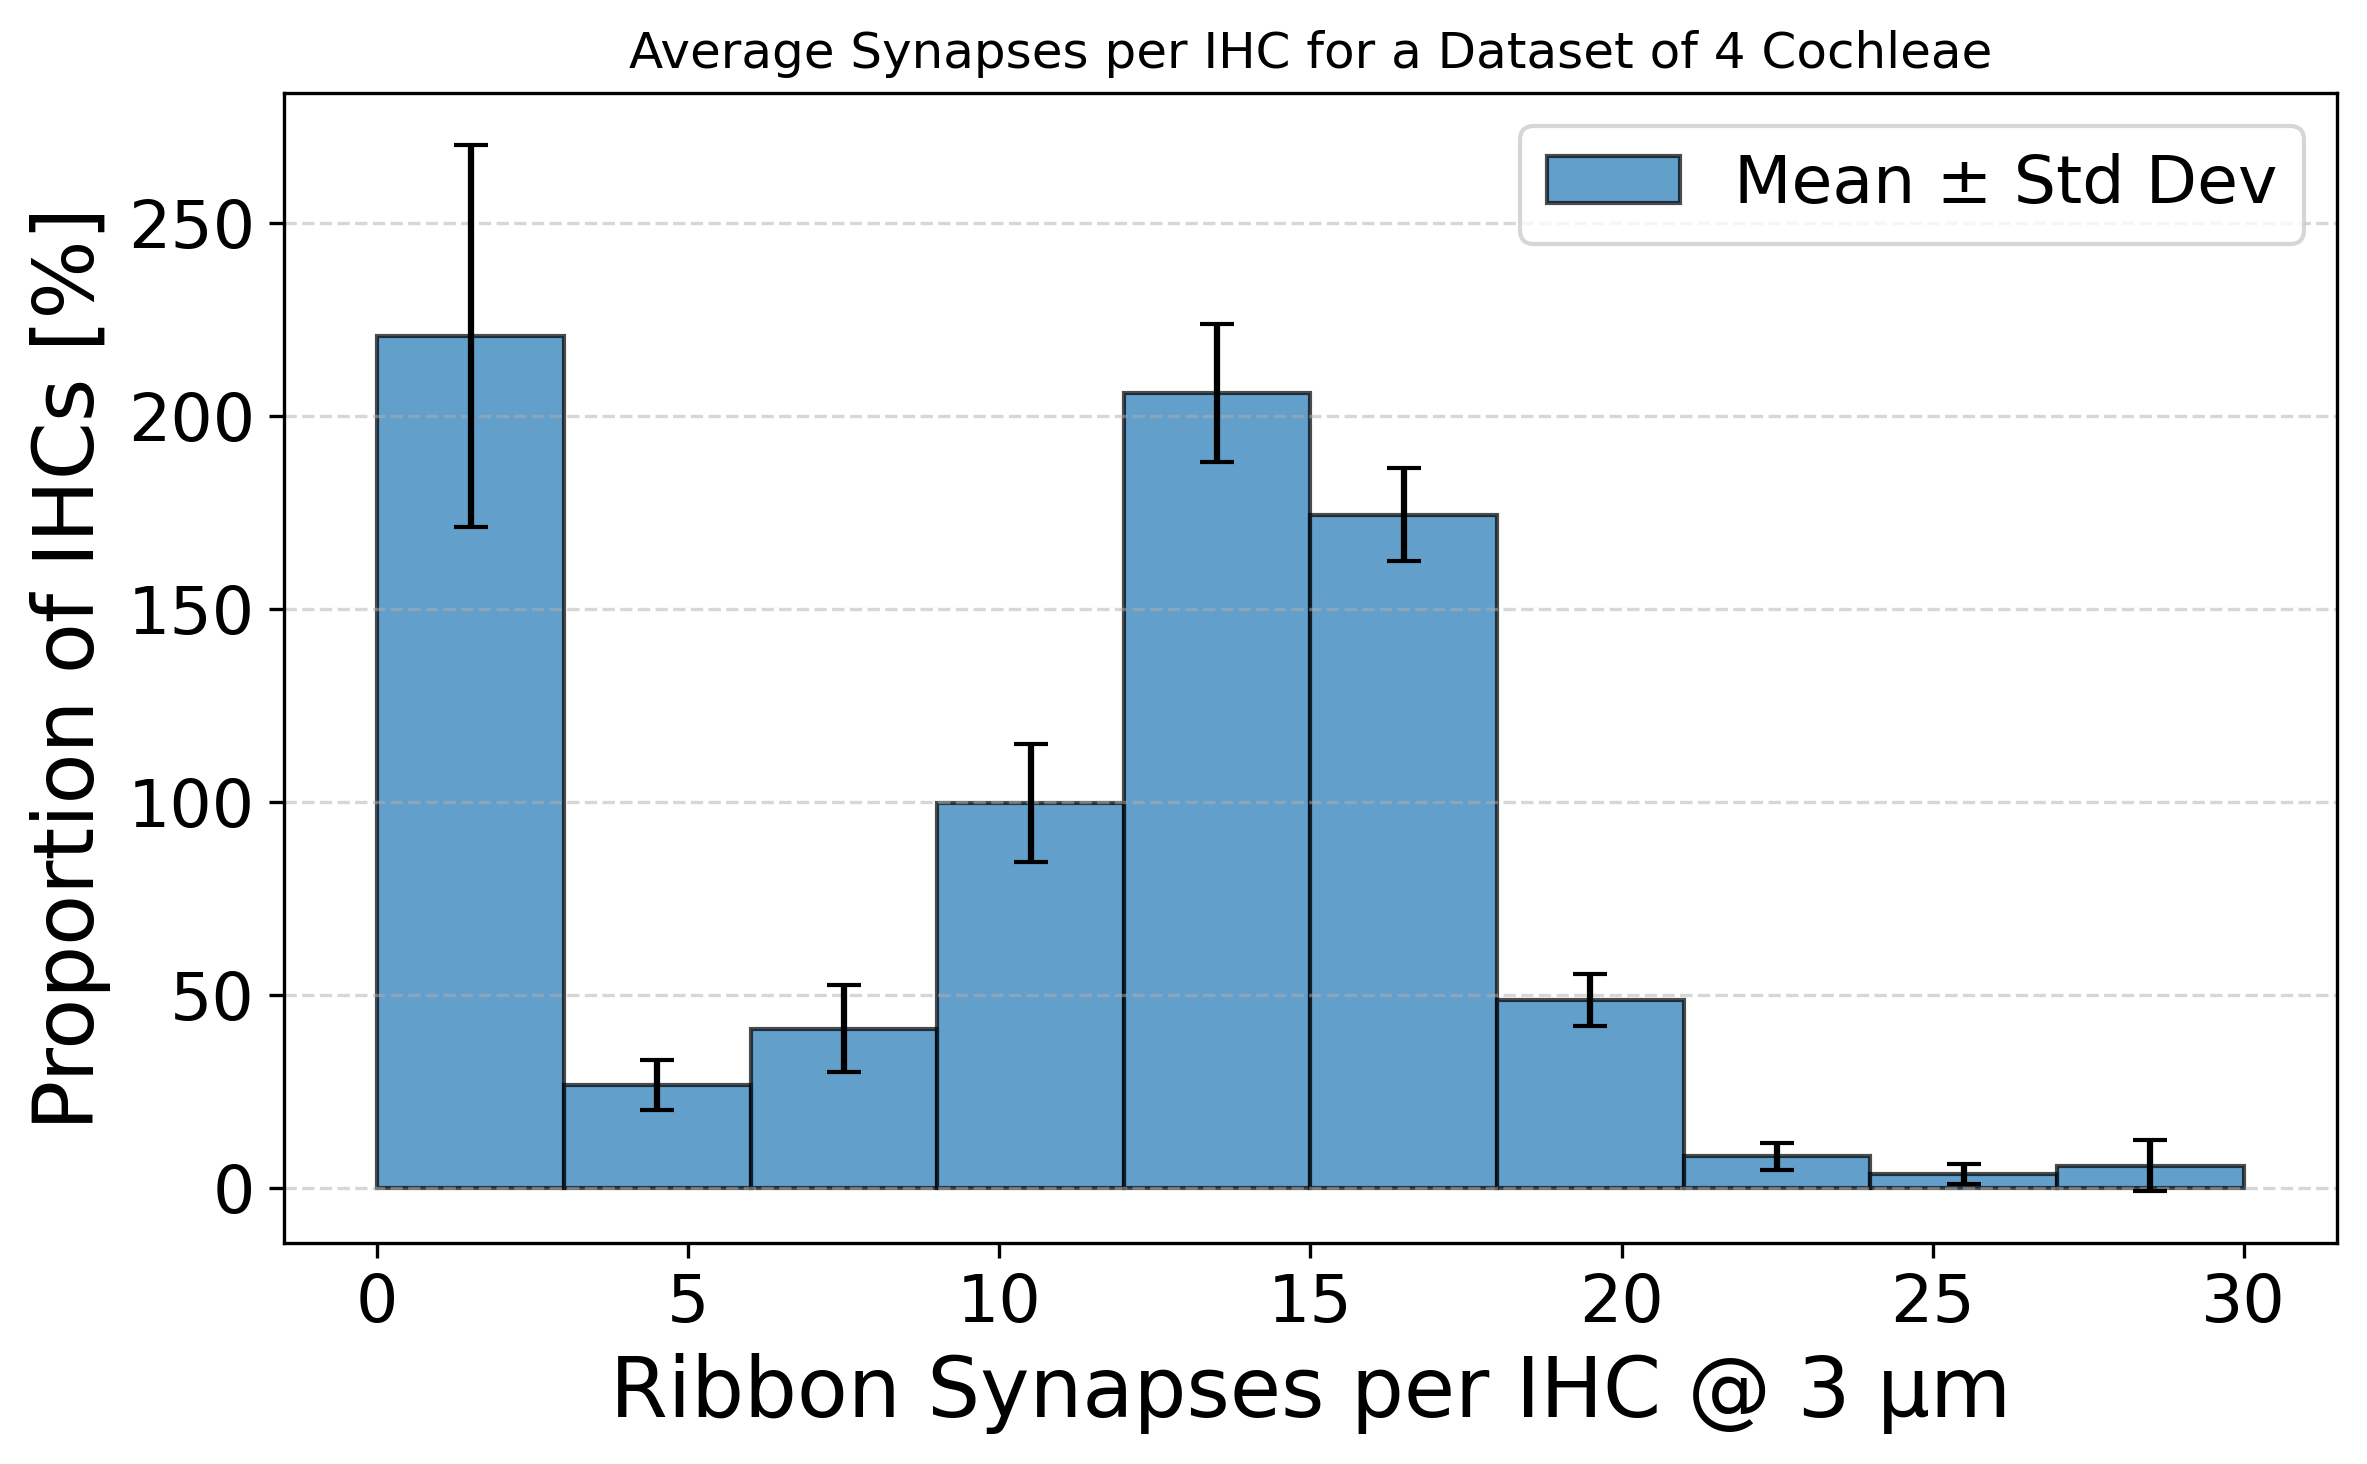
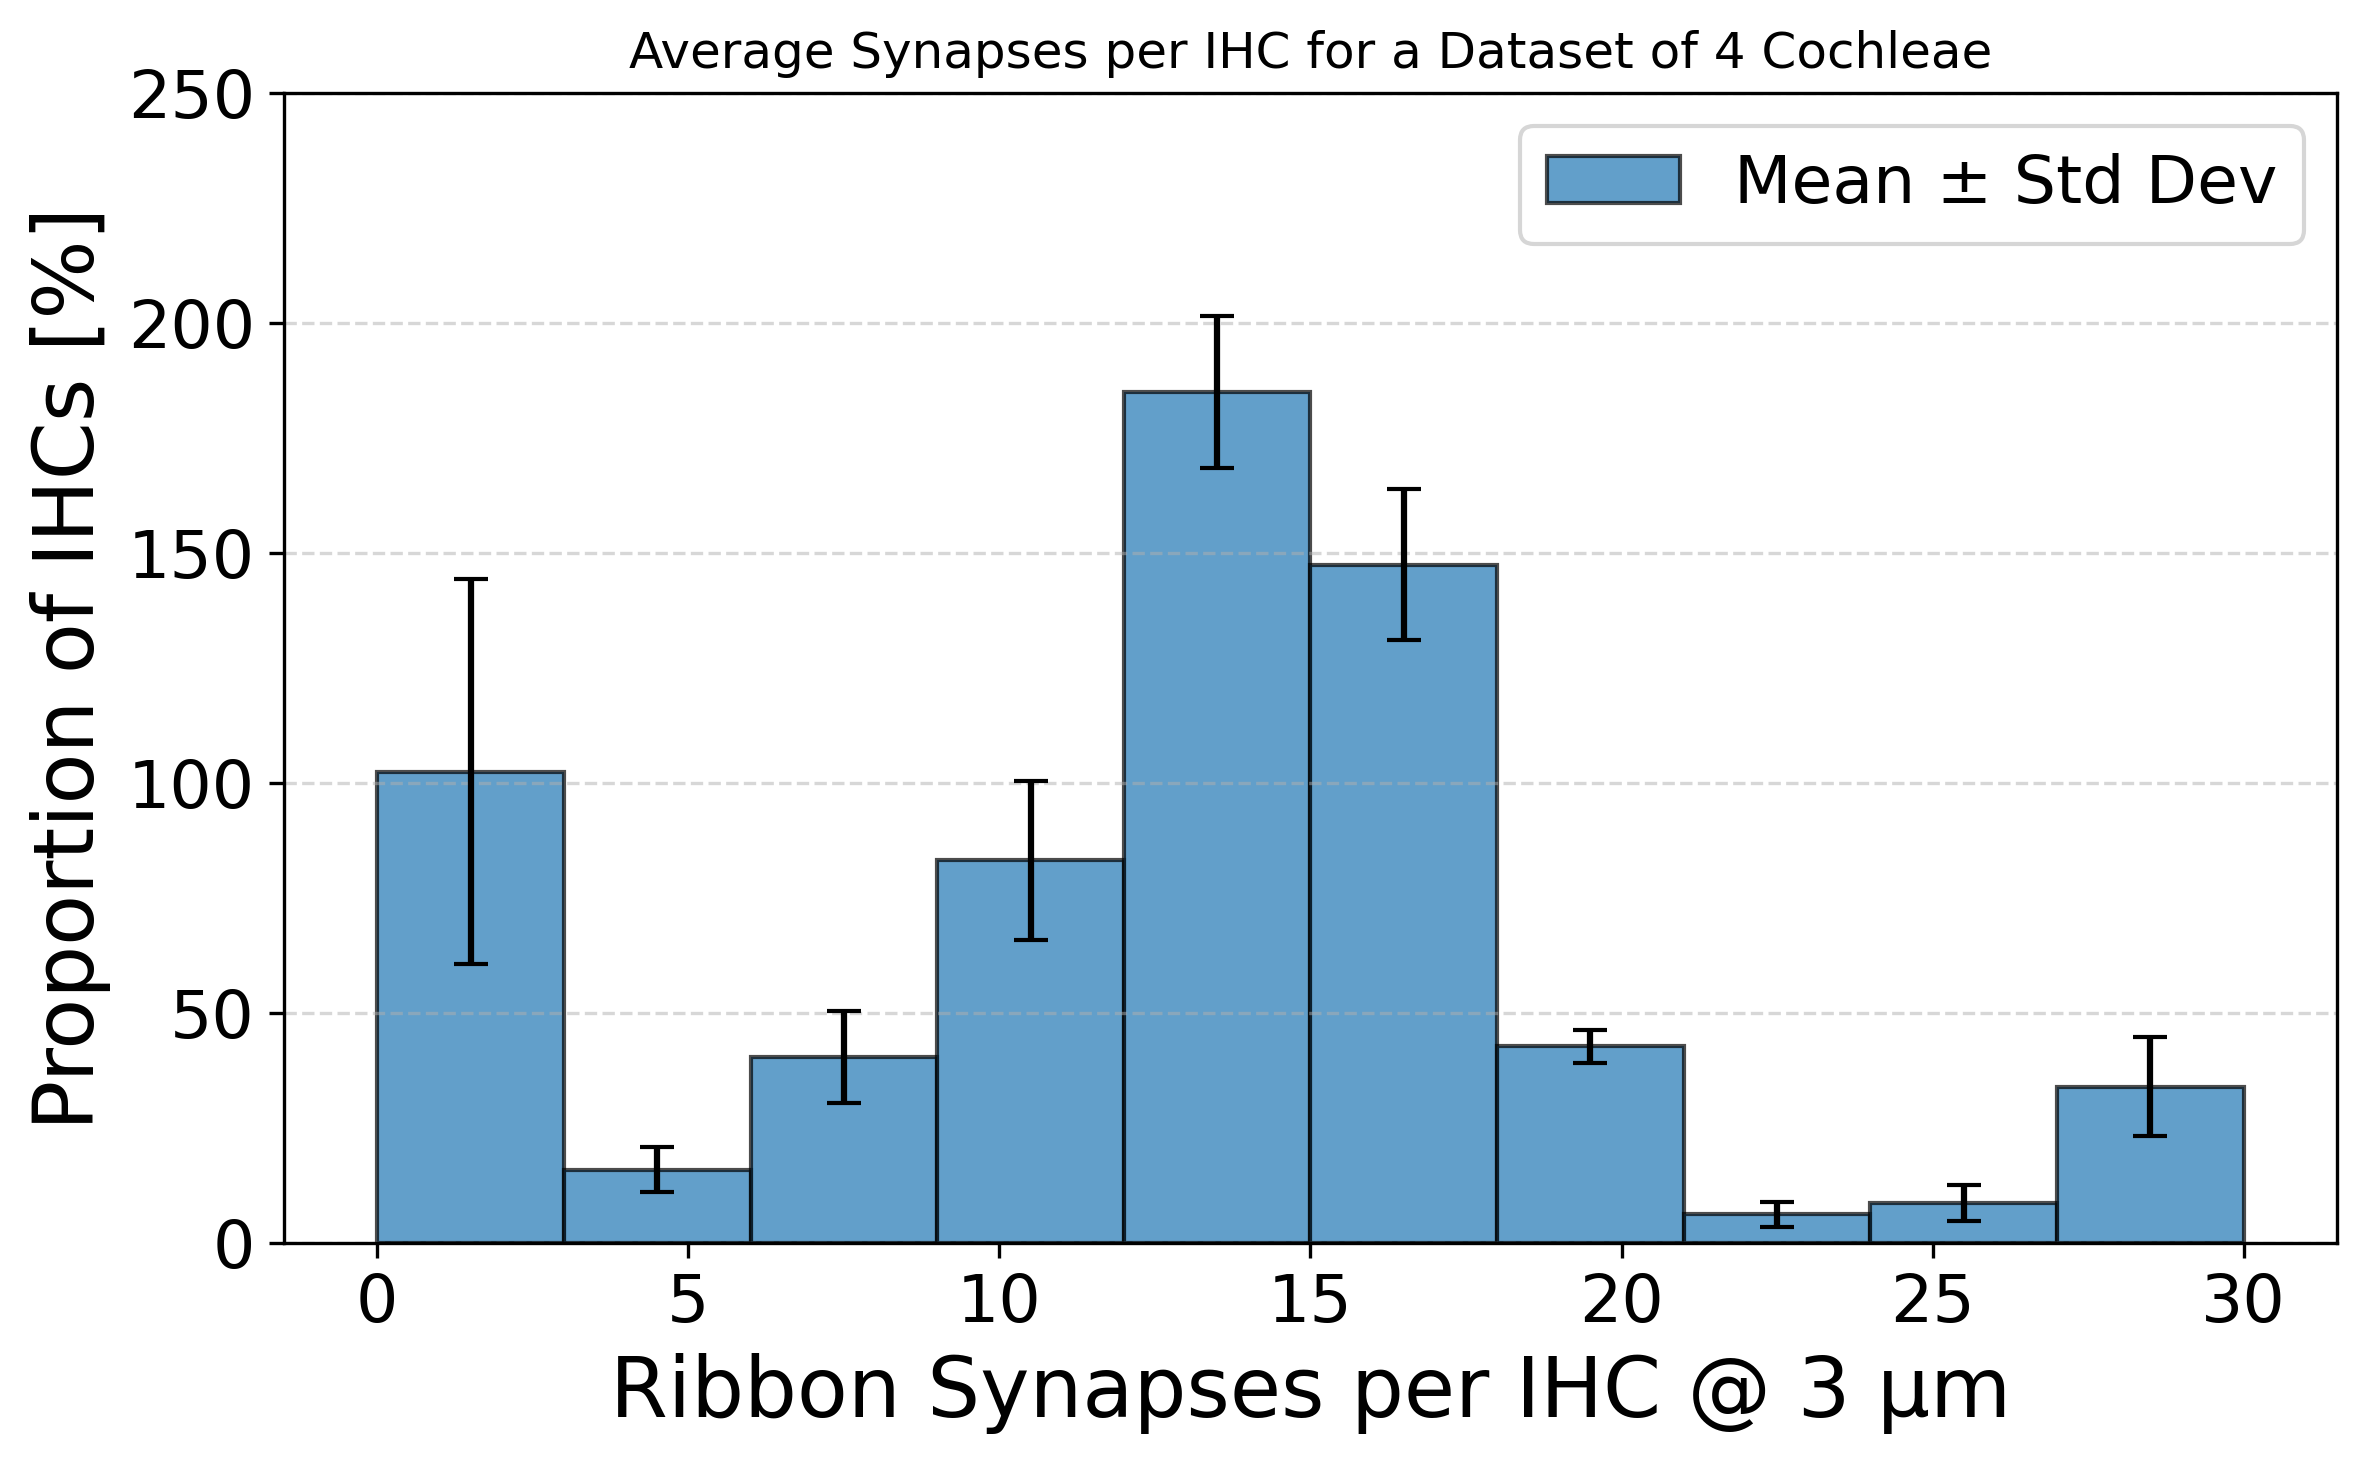
Update of syn per IHC with new watershed

diff --git a/scripts/figures/plot_figures.py b/scripts/figures/plot_figures.py
@@ -132,7 +132,7 @@ def fig_02d_02(save_path, plot=False):
     """Bar plot showing the distribution of synapse markers per IHC segmentation average over multiple clochleae.
     """
     cochleae = ['M_LR_000226_L', 'M_LR_000226_R', 'M_LR_000227_L', 'M_LR_000227_R']
-    ihc_version = "ihc_counts_v3"
+    ihc_version = "ihc_counts_v4"
     synapse_dir = f"/mnt/vast-nhr/projects/nim00007/data/moser/cochlea-lightsheet/predictions/synapses/{ihc_version}"
 
     max_dist = 3
